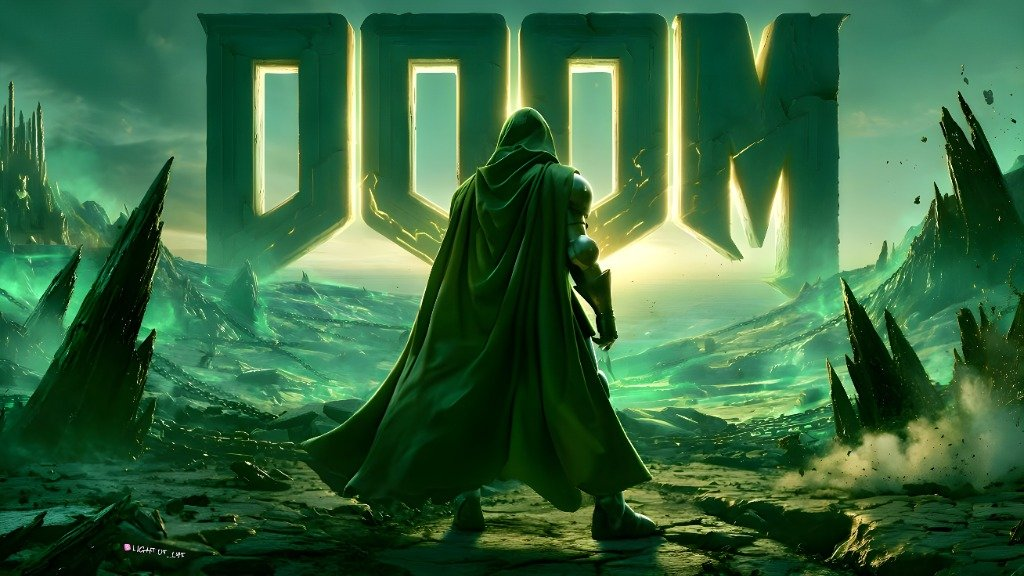
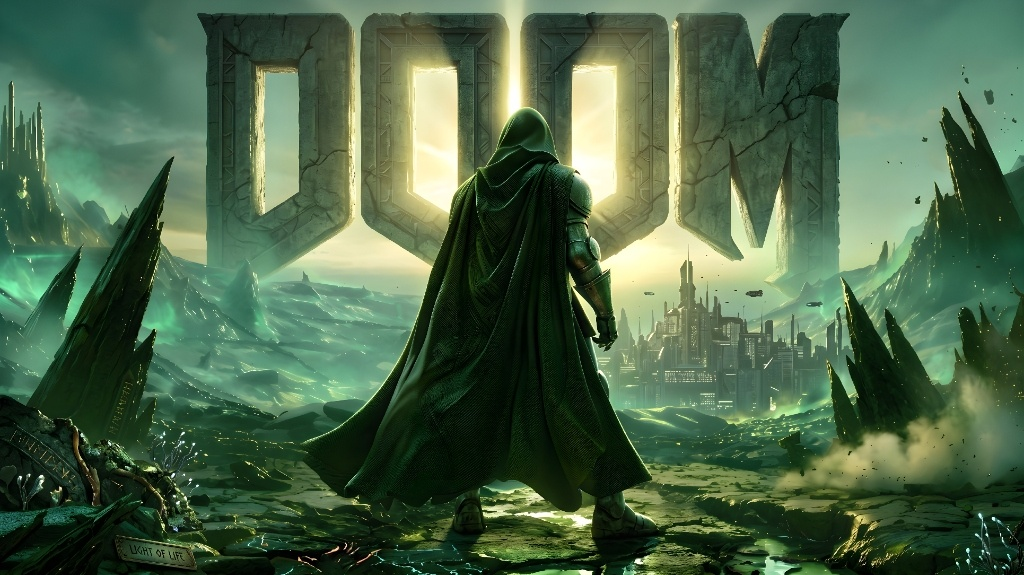
feat: add React client application structure with routing, Vercel analytics, and hero assets

diff --git a/client/src/App.jsx b/client/src/App.jsx
@@ -6,6 +6,7 @@ import AdminLayout from './components/AdminLayout'
 import PageLoading from './components/ui/PageLoading'
 import ScrollToTop from './components/ScrollToTop'
 import ErrorBoundary from './components/ErrorBoundary'
+import { Analytics } from '@vercel/analytics/react'
 
 // Lazy load non-critical components & pages for instant first paint
 const Particles = lazy(() => import('./components/ui/Particles'))
@@ -40,6 +41,7 @@ function App() {
   return (
     <div className="relative min-h-screen bg-doom-bg">
       <ScrollToTop />
+      <Analytics />
 
       {/* 3D Particle background for internal pages (loaded asynchronously, disabled on heavy canvas views) */}
       {!isLandingPage && (

diff --git a/README.md b/README.md
@@ -63,6 +63,7 @@ flowchart TD
 - **Official Events Architecture**: Comprehensive 29-event festival catalog synchronization across frontend and backend tiers; includes dynamic judging criteria breakdowns, accurate entry fee tiers, team size constraints (Solo, Duo, 3-member, 4-member), and direct coordinator hotlines
 - **Hardware Integration**: `@yudiel/react-qr-scanner` for browser-level camera stream acquisition (isolated to dedicated chunk)
 - **Credential Generation**: `qrcode.react` for vector-based SVG QR rendering
+- **Web Analytics & Telemetry**: Privacy-first real-time traffic, page view, and visitor telemetry via `@vercel/analytics/react` directly integrated into the root application render tree (`App.jsx`)
 
 ### Backend API & Services
 - **Runtime Environment**: Node.js (v22.x configured on Vercel Serverless Functions & local dev)
@@ -103,7 +104,8 @@ VECTORS_26-27/
 │   │   ├── favicon.png               # Application icon and touch icon (square)
 │   │   ├── vector26-logo-new.png     # Active transparent festival identity logo (UI banner/wordmark)
 │   │   ├── vector26-logo.png         # Preserved legacy festival identity asset
-│   │   ├── hero-bg.jpg               # Portal visual assets
+│   │   ├── hero-bg.jpg               # Cinematic Doctor Doom monolith arrival hero asset
+│   │   ├── hero-bg.webp              # High-efficiency WebP transcode of hero background
 │   │   └── fonts/                    # Display typography assets
 │   └── src/
 │       ├── App.jsx                   # Central routing and authorization guards
@@ -279,7 +281,7 @@ flowchart TD
 
 | Domain | Performance Technique | Implementation Details | Quantitative Impact |
 |:---|:---|:---|:---|
-| **Image Delivery** | WebP Transcoding & Responsive Art Direction | Transcoded master assets (`vector26-logo-new.webp`, `hero-bg.webp`) with `<picture>` fallbacks, `loading="lazy"`, and `fetchpriority="high"` for hero visuals | **>84% reduction** in image payloads (625 KB → 100 KB logo, 161 KB → 71 KB hero) |
+| **Image Delivery** | WebP Transcoding & Responsive Art Direction | Transcoded master assets (`vector26-logo-new.webp`, `hero-bg.webp`) with `<picture>` fallbacks, `loading="lazy"`, and `fetchpriority="high"` for hero visuals | **Optimized image payloads** (625 KB → 100 KB logo, 238 KB → 129 KB hero WebP) |
 | **Critical Path** | Asynchronous Font Hydration | Removed blocking third-party `cdnfonts.com` link; loaded local WOFF via `@font-face` with `font-display: swap`; Google Fonts loaded asynchronously via `media="print" onload="this.media='all'"` | **Eliminated render-blocking network hops** (saved 400–1200ms on first paint) |
 | **Code Splitting** | Granular Rollup Chunks & Lazy Loading | `React.lazy` on `Landing`, `Particles` (OGL), and `DoomsdayCanvas` (Three.js); isolated `vendor-three`, `vendor-motion`, `vendor-firebase`, `vendor-icons`, `vendor-qr`, `vendor-ogl` | Main entry chunk reduced from **430 kB to ~309 kB** (~96 kB gzipped) |
 | **API Compression** | Express Response Compression | `compression` middleware automatically compresses JSON payloads > 1KB using Gzip/Deflate | **~75% reduction** in API wire transfer size |
